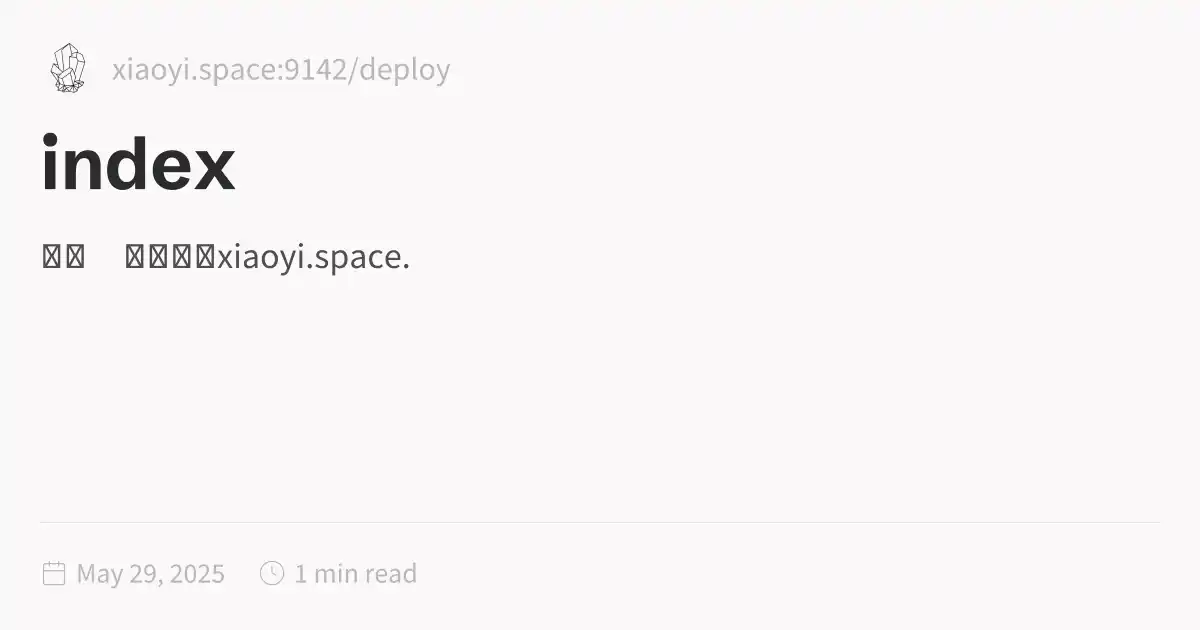
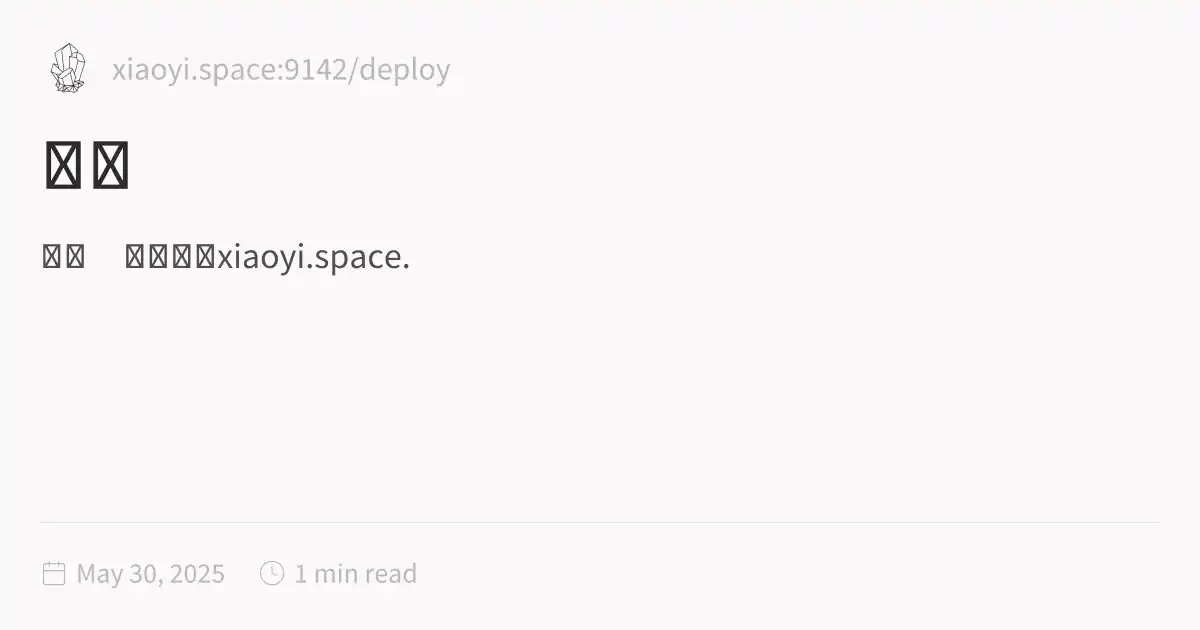
feature:update my website

Changed region(s): [[0.0308, 0.2111, 0.2158, 0.3016], [0.0925, 0.9048, 0.1233, 0.9349]]

diff --git a/deploy/index.html b/deploy/index.html
@@ -1,5 +1,5 @@
 <!DOCTYPE html>
-<html lang="en"><head><title>index</title><meta charset="utf-8"/><link rel="preconnect" href="https://fonts.googleapis.com"/><link rel="preconnect" href="https://fonts.gstatic.com"/><link rel="stylesheet" href="https://fonts.googleapis.com/css2?family=Schibsted Grotesk:wght@400;700&amp;family=Source Sans Pro:ital,wght@0,400;0,600;1,400;1,600&amp;family=IBM Plex Mono:wght@400;600&amp;display=swap"/><link rel="preconnect" href="https://cdnjs.cloudflare.com" crossorigin="anonymous"/><meta name="viewport" content="width=device-width, initial-scale=1.0"/><meta name="og:site_name" content="xiaoyili.space"/><meta property="og:title" content="index"/><meta property="og:type" content="website"/><meta name="twitter:card" content="summary_large_image"/><meta name="twitter:title" content="index"/><meta name="twitter:description" content="你好，欢迎来到xiaoyi.space."/><meta property="og:description" content="你好，欢迎来到xiaoyi.space."/><meta property="og:image:alt" content="你好，欢迎来到xiaoyi.space."/><meta property="twitter:domain" content="xiaoyi.space:9142/deploy"/><meta property="og:url" content="https://xiaoyi.space:9142/deploy/index"/><meta property="twitter:url" content="https://xiaoyi.space:9142/deploy/index"/><link rel="icon" href="./static/icon.png"/><meta name="description" content="你好，欢迎来到xiaoyi.space."/><meta name="generator" content="Quartz"/><link href="./index.css" rel="stylesheet" type="text/css" spa-preserve/><style>.expand-button {
+<html lang="en"><head><title>首页</title><meta charset="utf-8"/><link rel="preconnect" href="https://fonts.googleapis.com"/><link rel="preconnect" href="https://fonts.gstatic.com"/><link rel="stylesheet" href="https://fonts.googleapis.com/css2?family=Schibsted Grotesk:wght@400;700&amp;family=Source Sans Pro:ital,wght@0,400;0,600;1,400;1,600&amp;family=IBM Plex Mono:wght@400;600&amp;display=swap"/><link rel="preconnect" href="https://cdnjs.cloudflare.com" crossorigin="anonymous"/><meta name="viewport" content="width=device-width, initial-scale=1.0"/><meta name="og:site_name" content="xiaoyili.space"/><meta property="og:title" content="首页"/><meta property="og:type" content="website"/><meta name="twitter:card" content="summary_large_image"/><meta name="twitter:title" content="首页"/><meta name="twitter:description" content="你好，欢迎来到xiaoyi.space."/><meta property="og:description" content="你好，欢迎来到xiaoyi.space."/><meta property="og:image:alt" content="你好，欢迎来到xiaoyi.space."/><meta property="twitter:domain" content="xiaoyi.space:9142/deploy"/><meta property="og:url" content="https://xiaoyi.space:9142/deploy/index"/><meta property="twitter:url" content="https://xiaoyi.space:9142/deploy/index"/><link rel="icon" href="./static/icon.png"/><meta name="description" content="你好，欢迎来到xiaoyi.space."/><meta name="generator" content="Quartz"/><link href="./index.css" rel="stylesheet" type="text/css" spa-preserve/><style>.expand-button {
   position: absolute;
   display: flex;
   float: right;
@@ -116,7 +116,7 @@ pre:hover > .expand-button {
   padding: 0 12px;
   font-size: 14px;
 }
[2 lines of base64/hex data omitted]
                 s-3.542,0.634-4.898,1.688l-7.669-7.669C16.785,10.424,17,9.74,17,9c0-2.206-1.794-4-4-4S9,6.794,9,9s1.794,4,4,4
                 c0.74,0,1.424-0.215,2.019-0.567l7.669,7.669C21.634,21.458,21,23.154,21,25s0.634,3.542,1.688,4.897L10.024,42.562
                 C8.958,41.595,7.549,41,6,41c-3.309,0-6,2.691-6,6s2.691,6,6,6s6-2.691,6-6c0-1.035-0.263-2.009-0.726-2.86l12.829-12.829

diff --git a/deploy/你好，欢迎来到xiaoyi.space.html b/deploy/你好，欢迎来到xiaoyi.space.html
@@ -138,6 +138,6 @@ pre:hover > .expand-button {
                 C46.042,11.405,47.451,12,49,12c3.309,0,6-2.691,6-6S52.309,0,49,0z M11,9c0-1.103,0.897-2,2-2s2,0.897,2,2s-0.897,2-2,2
                 S11,10.103,11,9z M6,51c-2.206,0-4-1.794-4-4s1.794-4,4-4s4,1.794,4,4S8.206,51,6,51z M33,49c0,2.206-1.794,4-4,4s-4-1.794-4-4
                 s1.794-4,4-4S33,46.794,33,49z M29,31c-3.309,0-6-2.691-6-6s2.691-6,6-6s6,2.691,6,6S32.309,31,29,31z M47,41c0,1.103-0.897,2-2,2
-                s-2-0.897-2-2s0.897-2,2-2S47,39.897,47,41z M49,10c-2.206,0-4-1.794-4-4s1.794-4,4-4s4,1.794,4,4S51.206,10,49,10z"></path></svg></button></div><div class="global-graph-outer"><div class="global-graph-container" data-cfg="{&quot;drag&quot;:true,&quot;zoom&quot;:true,&quot;depth&quot;:-1,&quot;scale&quot;:0.9,&quot;repelForce&quot;:0.5,&quot;centerForce&quot;:0.2,&quot;linkDistance&quot;:30,&quot;fontSize&quot;:0.6,&quot;opacityScale&quot;:1,&quot;showTags&quot;:true,&quot;removeTags&quot;:[],&quot;focusOnHover&quot;:true,&quot;enableRadial&quot;:true}"></div></div></div><div class="toc desktop-only"><button type="button" class="toc-header" aria-controls="toc-content" aria-expanded="true"><h3>Table of Contents</h3><svg xmlns="http://www.w3.org/2000/svg" width="24" height="24" viewBox="0 0 24 24" fill="none" stroke="currentColor" stroke-width="2" stroke-linecap="round" stroke-linejoin="round" class="fold"><polyline points="6 9 12 15 18 9"></polyline></svg></button><ul class="toc-content overflow" id="list-1"><li class="depth-0"><a href="#这是哪儿" data-for="这是哪儿">这是哪儿</a></li><li class="depth-0"><a href="#我是谁" data-for="我是谁">我是谁</a></li><li class="depth-0"><a href="#我的联系方式" data-for="我的联系方式">我的联系方式</a></li><li class="depth-0"><a href="#这是我的猫" data-for="这是我的猫">这是我的猫</a></li><li class="overflow-end"></li></ul></div><div class="backlinks"><h3>Backlinks</h3><ul id="list-2" class="overflow"><li><a href="./" class="internal">index</a></li><li><a href="./为什么搭建这个博客" class="internal">为什么搭建这个博客</a></li><li class="overflow-end"></li></ul></div></div><footer class><p>Created with <a href="https://quartz.jzhao.xyz/">Quartz v4.5.1</a> © 2025</p><ul><li><a href="https://github.com/jackyzha0/quartz">GitHub</a></li><li><a href="https://discord.gg/cRFFHYye7t">Discord Community</a></li></ul></footer></div></div></body><script type="application/javascript">function n(){let t=this.parentElement;t.classList.toggle("is-collapsed");let e=t.getElementsByClassName("callout-content")[0];if(!e)return;let l=t.classList.contains("is-collapsed");e.style.gridTemplateRows=l?"0fr":"1fr"}function c(){let t=document.getElementsByClassName("callout is-collapsible");for(let e of t){let l=e.getElementsByClassName("callout-title")[0],s=e.getElementsByClassName("callout-content")[0];if(!l||!s)continue;l.addEventListener("click",n),window.addCleanup(()=>l.removeEventListener("click",n));let o=e.classList.contains("is-collapsed");s.style.gridTemplateRows=o?"0fr":"1fr"}}document.addEventListener("nav",c);
+                s-2-0.897-2-2s0.897-2,2-2S47,39.897,47,41z M49,10c-2.206,0-4-1.794-4-4s1.794-4,4-4s4,1.794,4,4S51.206,10,49,10z"></path></svg></button></div><div class="global-graph-outer"><div class="global-graph-container" data-cfg="{&quot;drag&quot;:true,&quot;zoom&quot;:true,&quot;depth&quot;:-1,&quot;scale&quot;:0.9,&quot;repelForce&quot;:0.5,&quot;centerForce&quot;:0.2,&quot;linkDistance&quot;:30,&quot;fontSize&quot;:0.6,&quot;opacityScale&quot;:1,&quot;showTags&quot;:true,&quot;removeTags&quot;:[],&quot;focusOnHover&quot;:true,&quot;enableRadial&quot;:true}"></div></div></div><div class="toc desktop-only"><button type="button" class="toc-header" aria-controls="toc-content" aria-expanded="true"><h3>Table of Contents</h3><svg xmlns="http://www.w3.org/2000/svg" width="24" height="24" viewBox="0 0 24 24" fill="none" stroke="currentColor" stroke-width="2" stroke-linecap="round" stroke-linejoin="round" class="fold"><polyline points="6 9 12 15 18 9"></polyline></svg></button><ul class="toc-content overflow" id="list-1"><li class="depth-0"><a href="#这是哪儿" data-for="这是哪儿">这是哪儿</a></li><li class="depth-0"><a href="#我是谁" data-for="我是谁">我是谁</a></li><li class="depth-0"><a href="#我的联系方式" data-for="我的联系方式">我的联系方式</a></li><li class="depth-0"><a href="#这是我的猫" data-for="这是我的猫">这是我的猫</a></li><li class="overflow-end"></li></ul></div><div class="backlinks"><h3>Backlinks</h3><ul id="list-2" class="overflow"><li><a href="./" class="internal">首页</a></li><li><a href="./为什么搭建这个博客" class="internal">为什么搭建这个博客</a></li><li class="overflow-end"></li></ul></div></div><footer class><p>Created with <a href="https://quartz.jzhao.xyz/">Quartz v4.5.1</a> © 2025</p><ul><li><a href="https://github.com/jackyzha0/quartz">GitHub</a></li><li><a href="https://discord.gg/cRFFHYye7t">Discord Community</a></li></ul></footer></div></div></body><script type="application/javascript">function n(){let t=this.parentElement;t.classList.toggle("is-collapsed");let e=t.getElementsByClassName("callout-content")[0];if(!e)return;let l=t.classList.contains("is-collapsed");e.style.gridTemplateRows=l?"0fr":"1fr"}function c(){let t=document.getElementsByClassName("callout is-collapsible");for(let e of t){let l=e.getElementsByClassName("callout-title")[0],s=e.getElementsByClassName("callout-content")[0];if(!l||!s)continue;l.addEventListener("click",n),window.addCleanup(()=>l.removeEventListener("click",n));let o=e.classList.contains("is-collapsed");s.style.gridTemplateRows=o?"0fr":"1fr"}}document.addEventListener("nav",c);
 </script><script type="module">function f(i,e){if(!i)return;function r(o){o.target===this&&(o.preventDefault(),o.stopPropagation(),e())}function t(o){o.key.startsWith("Esc")&&(o.preventDefault(),e())}i?.addEventListener("click",r),window.addCleanup(()=>i?.removeEventListener("click",r)),document.addEventListener("keydown",t),window.addCleanup(()=>document.removeEventListener("keydown",t))}function y(i){for(;i.firstChild;)i.removeChild(i.firstChild)}var h=class{constructor(e,r){this.container=e;this.content=r;this.setupEventListeners(),this.setupNavigationControls(),this.resetTransform()}isDragging=!1;startPan={x:0,y:0};currentPan={x:0,y:0};scale=1;MIN_SCALE=.5;MAX_SCALE=3;cleanups=[];setupEventListeners(){let e=this.onMouseDown.bind(this),r=this.onMouseMove.bind(this),t=this.onMouseUp.bind(this),o=this.resetTransform.bind(this);this.container.addEventListener("mousedown",e),document.addEventListener("mousemove",r),document.addEventListener("mouseup",t),window.addEventListener("resize",o),this.cleanups.push(()=>this.container.removeEventListener("mousedown",e),()=>document.removeEventListener("mousemove",r),()=>document.removeEventListener("mouseup",t),()=>window.removeEventListener("resize",o))}cleanup(){for(let e of this.cleanups)e()}setupNavigationControls(){let e=document.createElement("div");e.className="mermaid-controls";let r=this.createButton("+",()=>this.zoom(.1)),t=this.createButton("-",()=>this.zoom(-.1)),o=this.createButton("Reset",()=>this.resetTransform());e.appendChild(t),e.appendChild(o),e.appendChild(r),this.container.appendChild(e)}createButton(e,r){let t=document.createElement("button");return t.textContent=e,t.className="mermaid-control-button",t.addEventListener("click",r),window.addCleanup(()=>t.removeEventListener("click",r)),t}onMouseDown(e){e.button===0&&(this.isDragging=!0,this.startPan={x:e.clientX-this.currentPan.x,y:e.clientY-this.currentPan.y},this.container.style.cursor="grabbing")}onMouseMove(e){this.isDragging&&(e.preventDefault(),this.currentPan={x:e.clientX-this.startPan.x,y:e.clientY-this.startPan.y},this.updateTransform())}onMouseUp(){this.isDragging=!1,this.container.style.cursor="grab"}zoom(e){let r=Math.min(Math.max(this.scale+e,this.MIN_SCALE),this.MAX_SCALE),t=this.content.getBoundingClientRect(),o=t.width/2,n=t.height/2,c=r-this.scale;this.currentPan.x-=o*c,this.currentPan.y-=n*c,this.scale=r,this.updateTransform()}updateTransform(){this.content.style.transform=`translate(${this.currentPan.x}px, ${this.currentPan.y}px) scale(${this.scale})`}resetTransform(){this.scale=1;let e=this.content.querySelector("svg");this.currentPan={x:e.getBoundingClientRect().width/2,y:e.getBoundingClientRect().height/2},this.updateTransform()}},C=["--secondary","--tertiary","--gray","--light","--lightgray","--highlight","--dark","--darkgray","--codeFont"],E;document.addEventListener("nav",async()=>{let e=document.querySelector(".center").querySelectorAll("code.mermaid");if(e.length===0)return;E||=await import("https://cdnjs.cloudflare.com/ajax/libs/mermaid/11.4.0/mermaid.esm.min.mjs");let r=E.default,t=new WeakMap;for(let n of e)t.set(n,n.innerText);async function o(){for(let s of e){s.removeAttribute("data-processed");let a=t.get(s);a&&(s.innerHTML=a)}let n=C.reduce((s,a)=>(s[a]=window.getComputedStyle(document.documentElement).getPropertyValue(a),s),{}),c=document.documentElement.getAttribute("saved-theme")==="dark";r.initialize({startOnLoad:!1,securityLevel:"loose",theme:c?"dark":"base",themeVariables:{fontFamily:n["--codeFont"],primaryColor:n["--light"],primaryTextColor:n["--darkgray"],primaryBorderColor:n["--tertiary"],lineColor:n["--darkgray"],secondaryColor:n["--secondary"],tertiaryColor:n["--tertiary"],clusterBkg:n["--light"],edgeLabelBackground:n["--highlight"]}}),await r.run({nodes:e})}await o(),document.addEventListener("themechange",o),window.addCleanup(()=>document.removeEventListener("themechange",o));for(let n=0;n<e.length;n++){let v=function(){let g=l.querySelector("#mermaid-space"),m=l.querySelector(".mermaid-content");if(!m)return;y(m);let w=c.querySelector("svg").cloneNode(!0);m.appendChild(w),l.classList.add("active"),g.style.cursor="grab",u=new h(g,m)},M=function(){l.classList.remove("active"),u?.cleanup(),u=null},c=e[n],s=c.parentElement,a=s.querySelector(".clipboard-button"),d=s.querySelector(".expand-button"),p=window.getComputedStyle(a),L=a.offsetWidth+parseFloat(p.marginLeft||"0")+parseFloat(p.marginRight||"0");d.style.right=`calc(${L}px + 0.3rem)`,s.prepend(d);let l=s.querySelector("#mermaid-container");if(!l)return;let u=null;d.addEventListener("click",v),f(l,M),window.addCleanup(()=>{u?.cleanup(),d.removeEventListener("click",v)})}});
 </script><script src="https://cdn.jsdelivr.net/npm/katex@0.16.11/dist/contrib/copy-tex.min.js" type="application/javascript"></script><script src="./postscript.js" type="module"></script></html>
